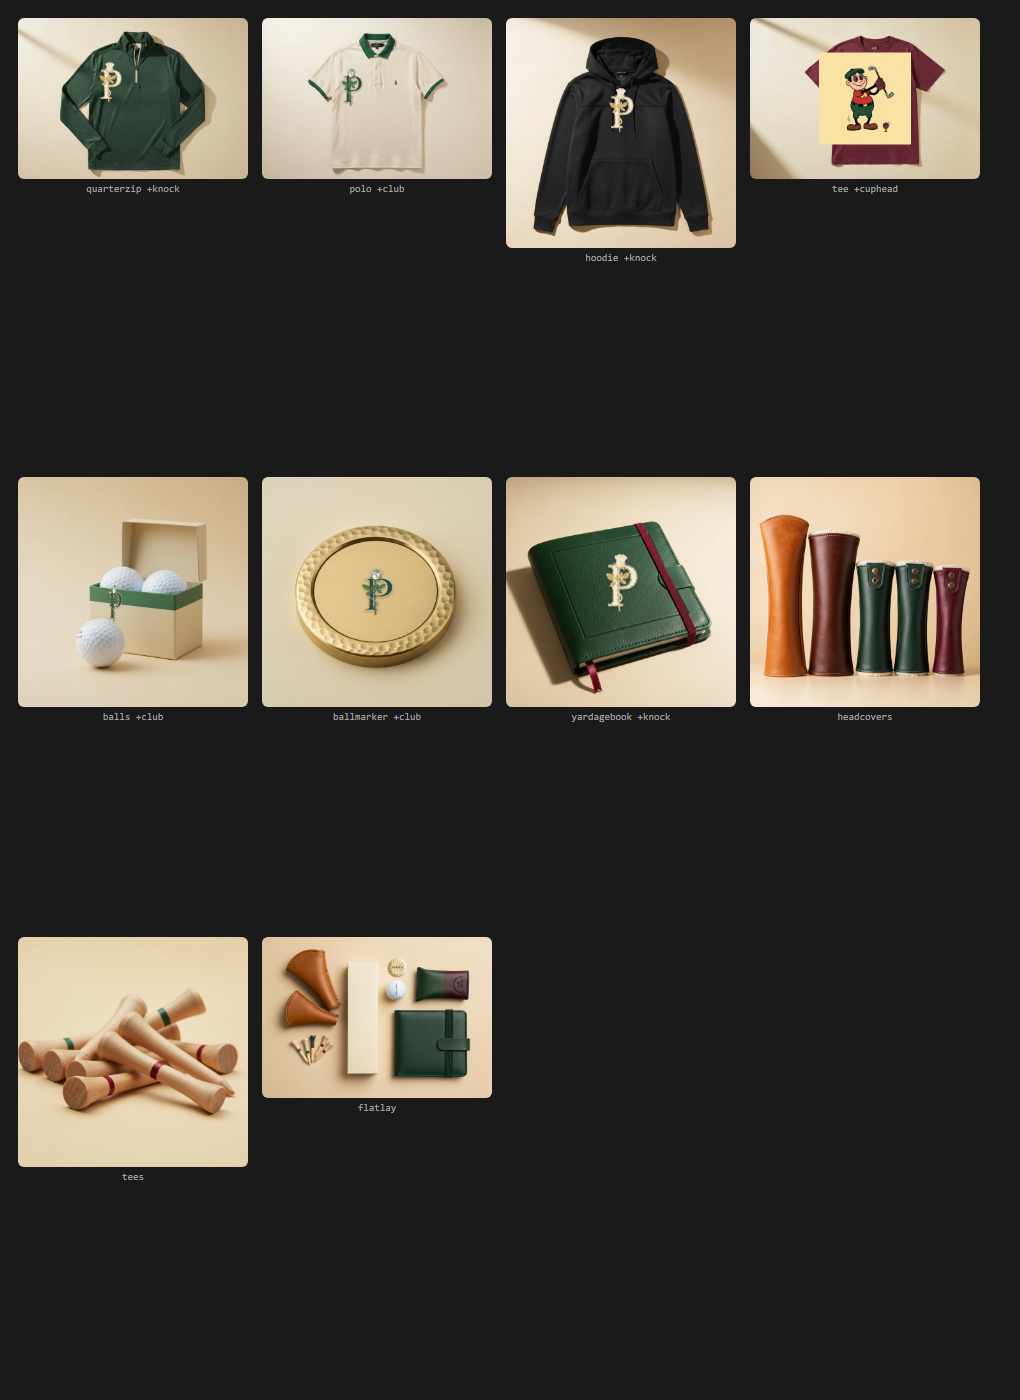
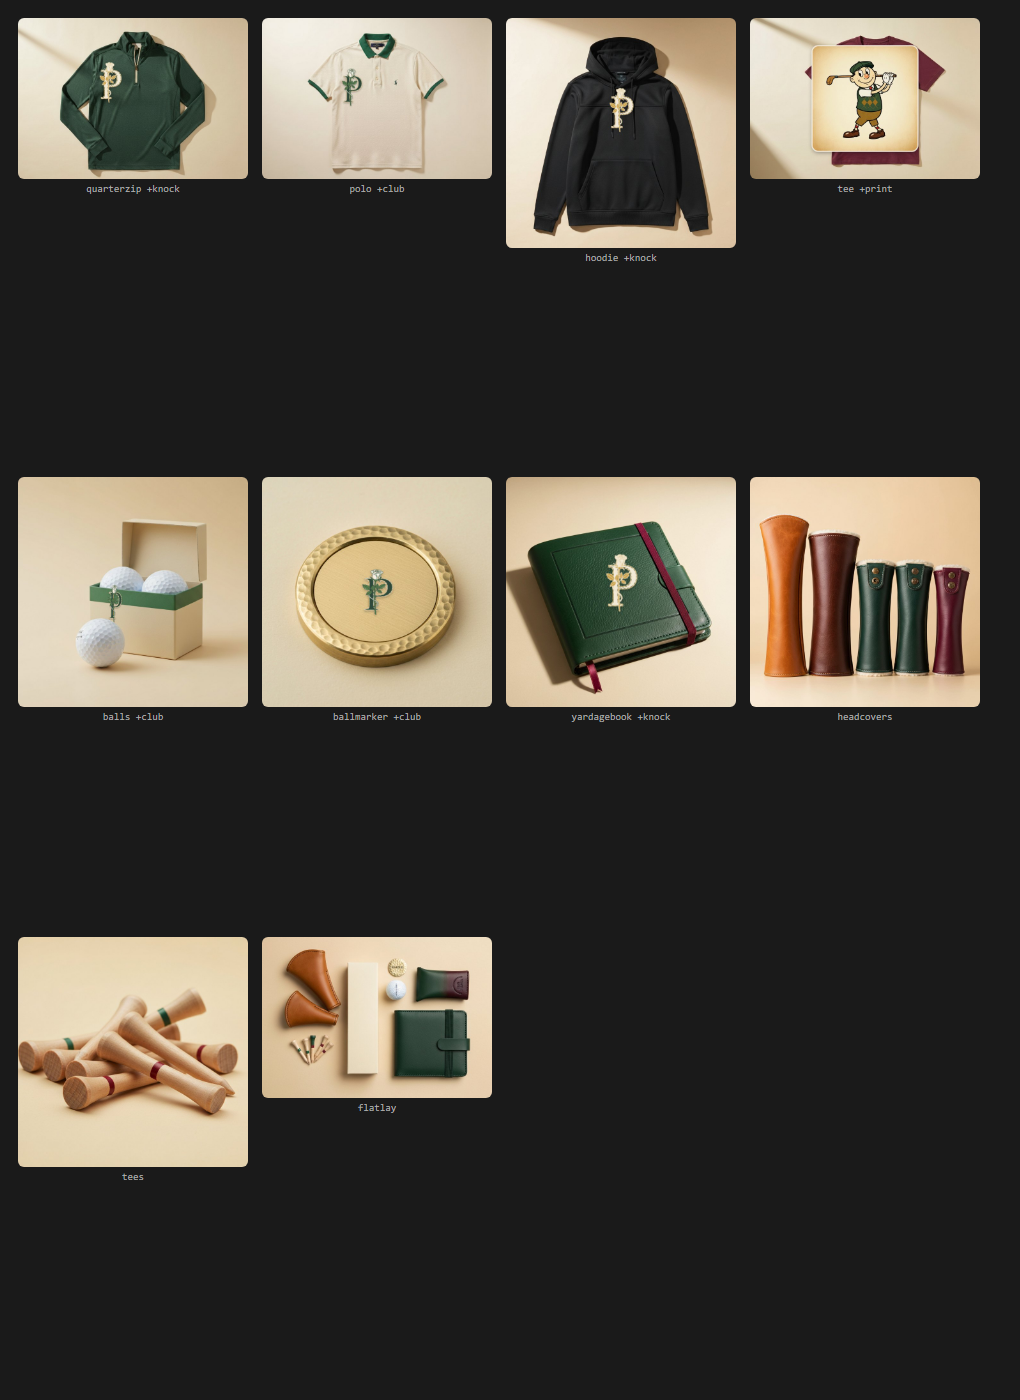
feat(merch): authentic rubber-hose golfer print on the leisure tee (#68)
Founder: the first Cuphead tee was generic-vintage, not authentic rubber-hose.
Regenerated the golf character against the Cuphead/Mouse-PI references (bold
black ink outlines, white gloves, vintage knicker attire, aged-paper cel) and
placed it as a framed vintage screen-print on the claret tee. Validates the
authentic rubber-hose pipeline (reused next for default avatars + swing scene).

Changed region(s): [[0.7902, 0.0307, 0.9118, 0.1536]]

diff --git a/src/core/utils.js b/src/core/utils.js
@@ -4,7 +4,7 @@
    ================================================ */
 
 // ── App version — single source of truth ──
-var APP_VERSION = "8.25.117";
+var APP_VERSION = "8.25.118";
 
 // ── Onboarding walkthrough (FTUE) — foundation constants/helpers ──
 // WALKTHROUGH_MAJOR is decoupled from APP_VERSION so a patch bump never
@@ -355,7 +355,7 @@ function pbSetBlocked(uid, shouldBlock) {
 
 function pbLog() { if (PB_DEBUG && console.log) console.log.apply(console, arguments); }
 function pbWarn() {
-  // Surface Firestore critical errors to the console. v8.25.117 — SPLIT the two
+  // Surface Firestore critical errors to the console. v8.25.118 — SPLIT the two
   // critical classes: INDEX / FAILED_PRECONDITION errors are always real +
   // actionable (a missing composite index), so they still write to the prod
   // `errors` collection for the admin panel. PERMISSION-DENIED, however, is

diff --git a/public/sw.js b/public/sw.js
@@ -12,7 +12,7 @@
 // the new SW never activated — browsers fell back to network on every request.
 // Install handler now uses Promise.all + per-asset cache.add().catch() (P22)
 // so future asset-list drift logs warnings instead of nuking the install.
-var CACHE_NAME = 'parbaughs-v8.25.117';
+var CACHE_NAME = 'parbaughs-v8.25.118';
 var STATIC_ASSETS = [
   '/smoky-mountain-open/',
   '/smoky-mountain-open/watermark.jpg',